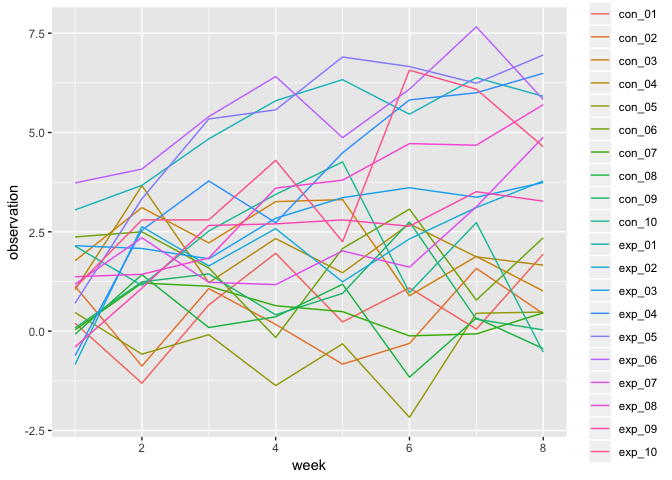
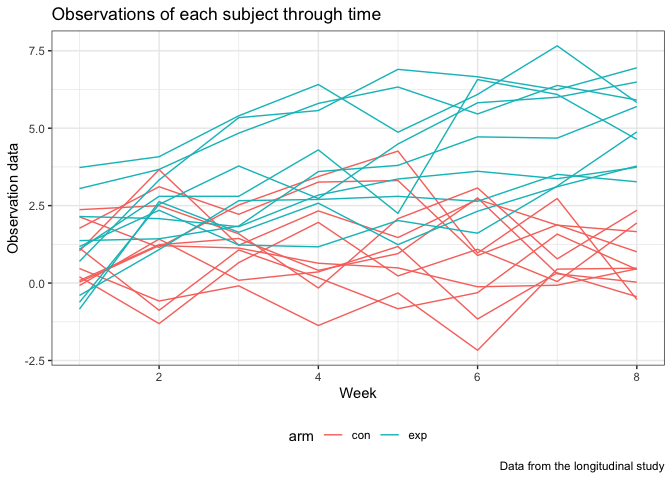
make adjustment to the spaghetti plot

diff --git a/p8105_hw5_xz2788.md b/p8105_hw5_xz2788.md
@@ -77,9 +77,19 @@ Make the required spaghetti plot
 
 ``` r
 longidata$arm_id = str_c(longidata$arm, '_', longidata$subject_id)
+#combine the "subject_id" and "arm" to make a new variable for later plotting
+
 longidata %>% 
-  ggplot(aes(x = week, y = observation)) +
-  geom_line(aes(color = arm_id))
+  ggplot(aes(x = week, y = observation, group = arm_id, color = arm)) +
+  geom_line() +
+  theme_bw() +
+  labs(
+    title = "Observations of each subject through time",
+    x = "Week",
+    y = "Observation data",
+    caption = "Data from the longitudinal study"
+  ) +
+  theme(legend.position = "bottom")
 ```
 
 ![](p8105_hw5_xz2788_files/figure-markdown_github/spaghetti_plot-1.png)
